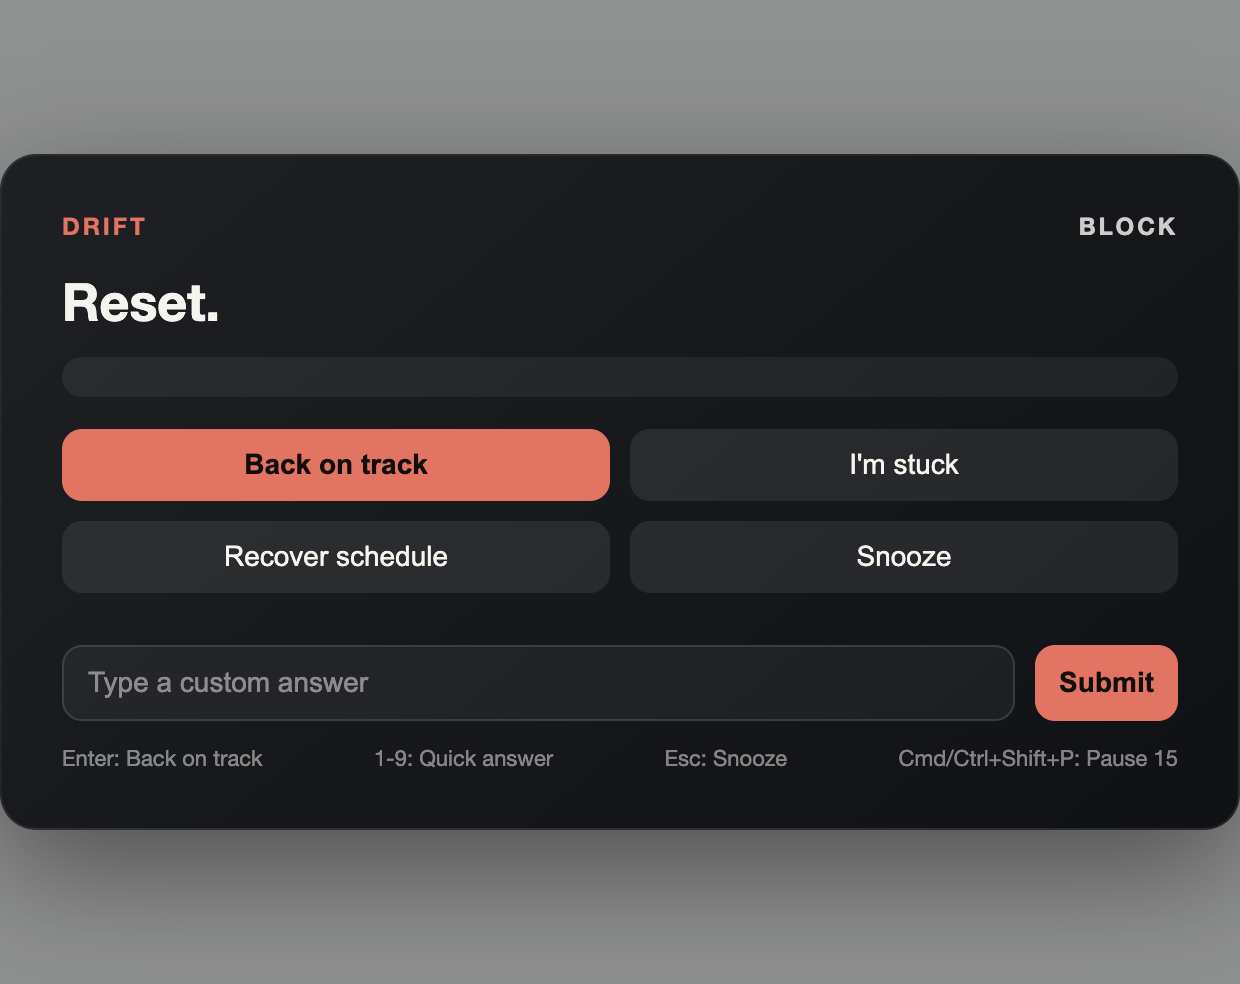
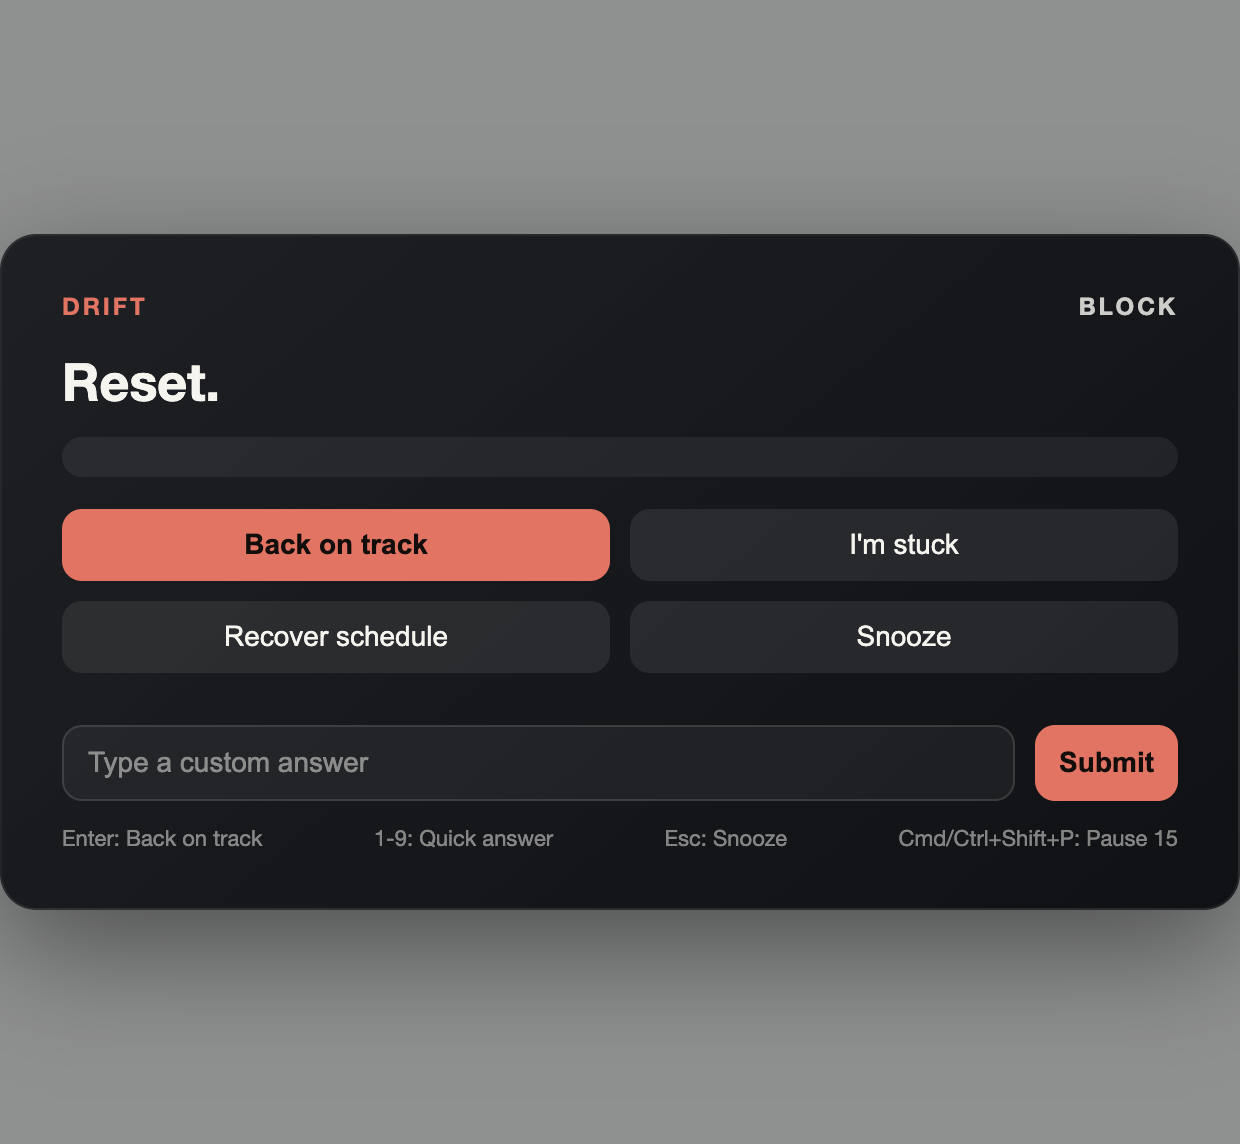
Overlay: contextualize 1-9 quick-answer hint

diff --git a/overlay/overlay.js b/overlay/overlay.js
@@ -12,6 +12,7 @@ const alignText = document.getElementById("alignText");
 const alignSubmit = document.getElementById("alignSubmit");
 
 const enterHint = document.getElementById("enterHint");
+const quickHint = document.getElementById("quickHint");
 const escHint = document.getElementById("escHint");
 
 const backBtn = document.getElementById("backBtn");
@@ -41,10 +42,15 @@ function setControlsEnabled(enabled) {
 }
 
 function updateHotkeyHints() {
-  if (!enterHint || !escHint) return;
-
   const mode = overlay?.dataset?.mode || "";
   const snoozeOpen = snooze && !snooze.classList.contains("hidden");
+
+  // Only show the 1-9 hint when the actionable "align" mode is active.
+  if (quickHint) {
+    const showQuick = mode === "align" && !snoozeOpen;
+    quickHint.hidden = !showQuick;
+    if (showQuick) quickHint.textContent = "1-9: Choose";
+  }
 
   const getHints = window.overlayUtils?.getHotkeyHints;
   if (typeof getHints !== "function") return;
@@ -55,8 +61,8 @@ function updateHotkeyHints() {
     snoozeOpen
   });
 
-  enterHint.textContent = enterText;
-  escHint.textContent = escText;
+  if (enterHint) enterHint.textContent = enterText;
+  if (escHint) escHint.textContent = escText;
 }
 
 function setText(el, value) {

diff --git a/overlay/overlay.html b/overlay/overlay.html
@@ -40,7 +40,7 @@
         <div id="miniPlan" class="mini-plan hidden"></div>
         <div class="footer">
           <span id="enterHint">Enter: Back on track</span>
-          <span>1-9: Quick answer</span>
+          <span id="quickHint">1-9: Quick answer</span>
           <span id="escHint">Esc: Snooze</span>
           <span>Cmd/Ctrl+Shift+P: Pause 15</span>
         </div>

diff --git a/overlay/scripts/capture-overlay-screenshot.js b/overlay/scripts/capture-overlay-screenshot.js
@@ -11,7 +11,7 @@ async function main() {
 
   const win = new BrowserWindow({
     width: 620,
-    height: 520,
+    height: 600,
     show: false,
     webPreferences: {
       preload: path.join(__dirname, "screenshot-preload.js")
